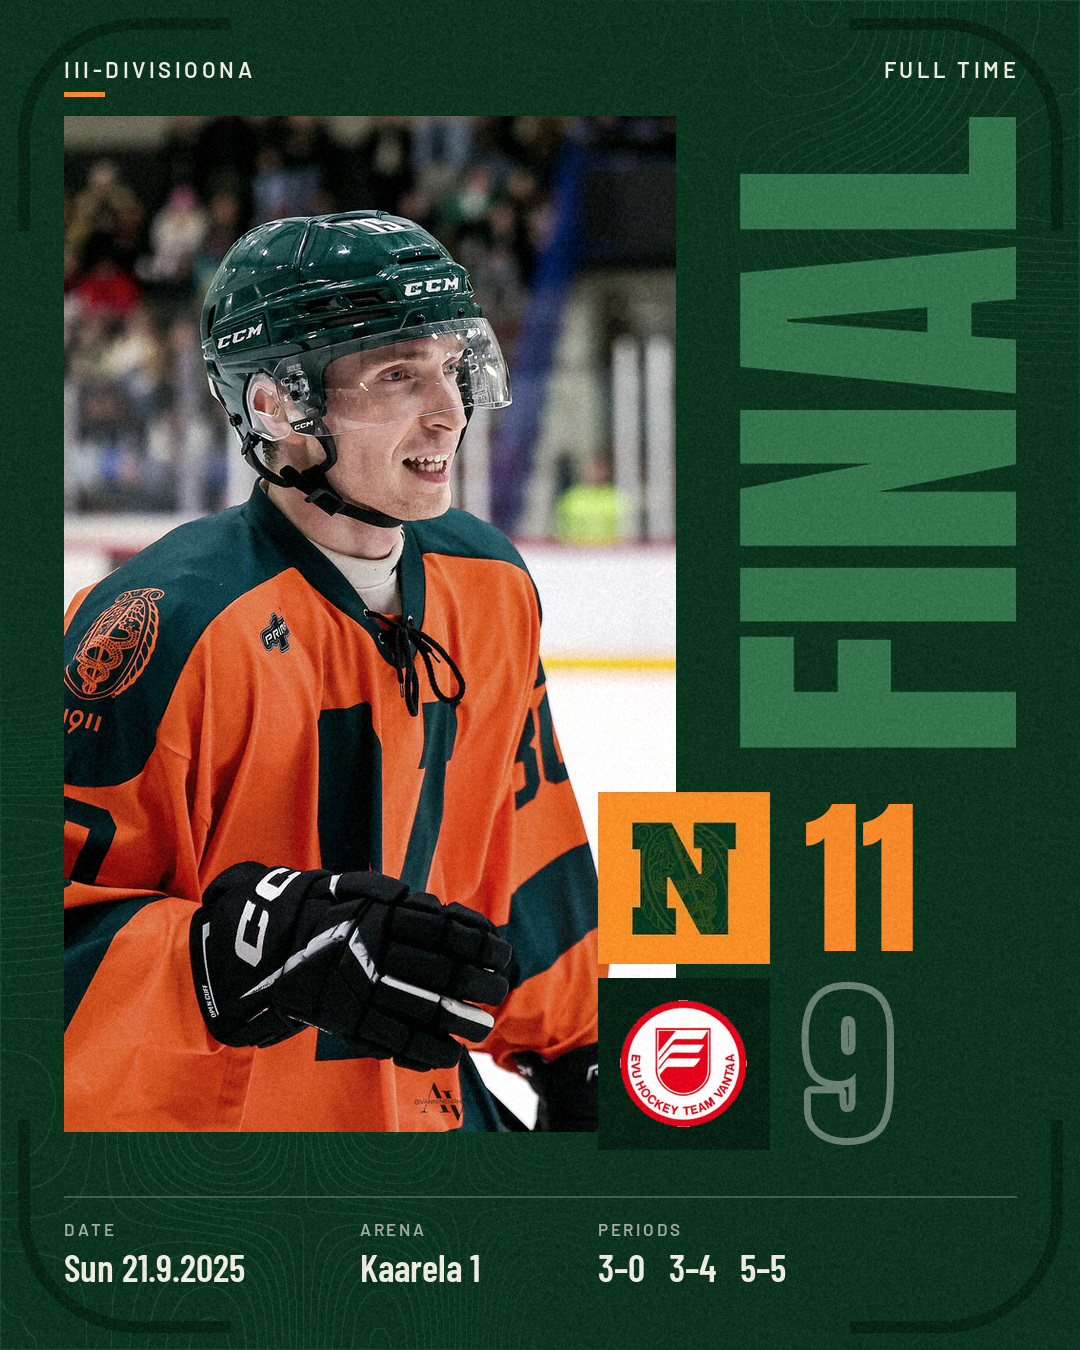
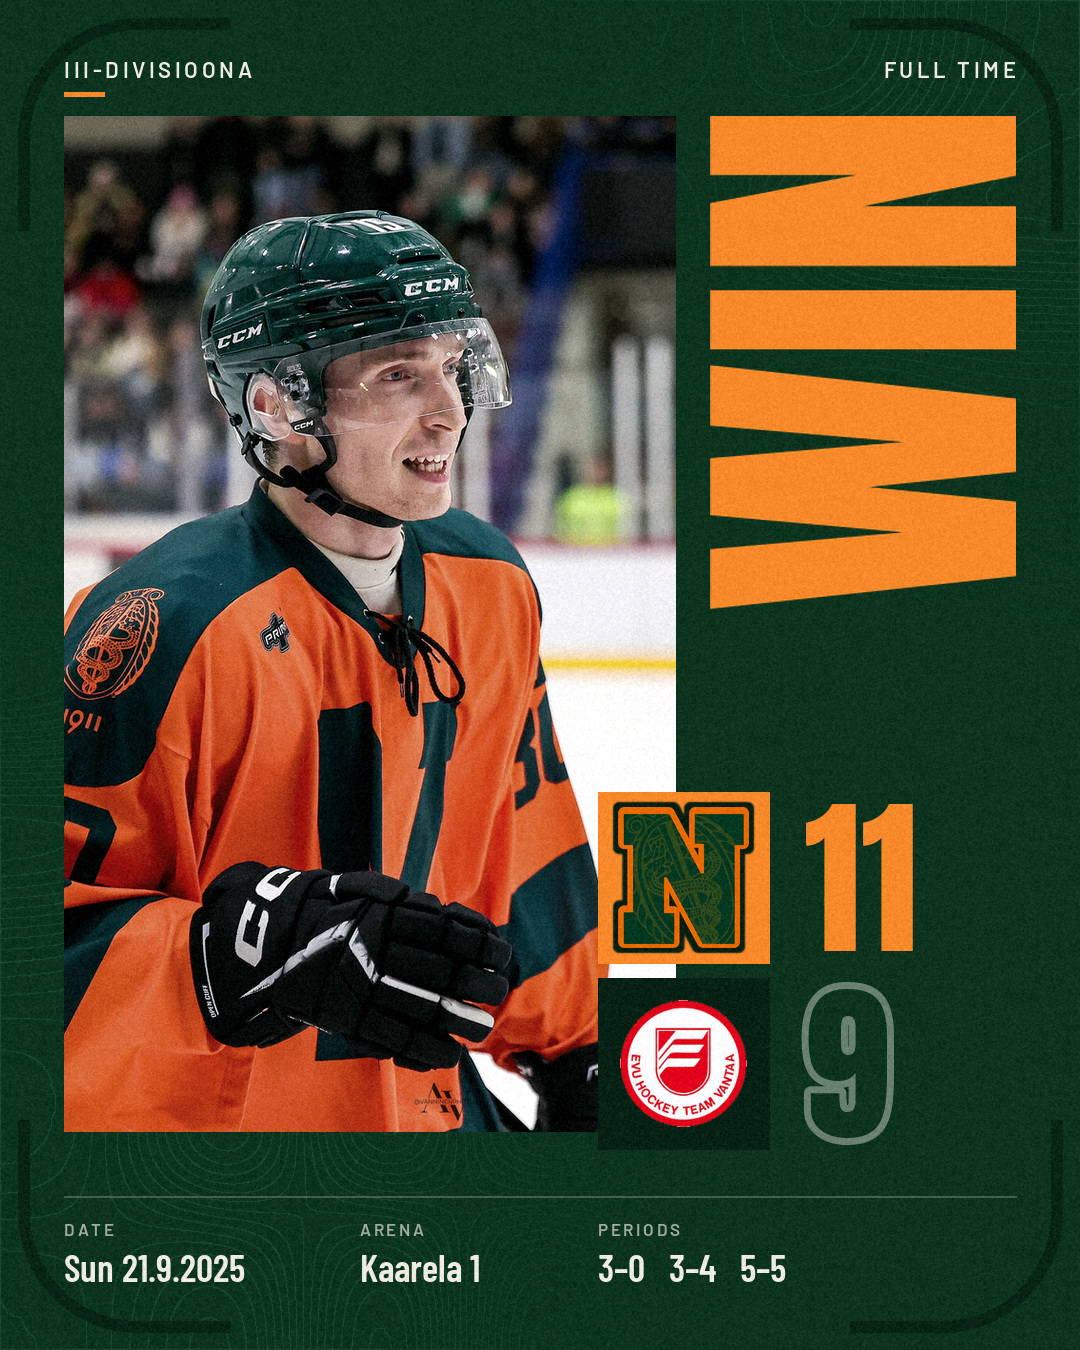
FCAA posts in FCAA navy; a Näädät win reads WIN instead of FINAL
Claude-Session: https://claude.ai/code/session_01E3Tk5uwvYhQgExk5yUNRYj

Changed region(s): [[0.6417, 0.0622, 0.9472, 0.56], [0.55, 0.5911, 0.7028, 0.7156]]

diff --git a/skills/naadat-game-posts/scripts/render_card.py b/skills/naadat-game-posts/scripts/render_card.py
@@ -16,7 +16,8 @@ Outputs, all 1080x1350 and metadata-free (see clean_image.py):
   always      <out>/photo_credit.txt   the credit of the photo used, nothing else
 
 Look: a club poster. A home game is green, an away game orange (from
-us_side). A graded photo panel on the left, the title set vertically on the
+us_side); every FCAA game is FCAA navy. A Näädät win reads WIN, not FINAL.
+A graded photo panel on the left, the title set vertically on the
 right, square logo tiles overlapping the photo edge with the scores beside
 them, and a ruled info row at the foot. Anton for display type, Barlow for
 text and labels.
@@ -143,6 +144,7 @@ CREAM = (238, 235, 225)
 GREEN = (11, 51, 30)
 ORANGE = (247, 137, 42)
 AWAY_BG = (240, 130, 38)
+FCAA_BG = (6, 33, 60)           # FCAA navy (fcaahockey.app background, lifted a step for print)
 
 
 def mix(a, b, t):
@@ -174,7 +176,26 @@ THEMES = {
         "loser": mix(AWAY_BG, GREEN, 0.72),
         "duo_dark": (8, 34, 20), "duo_light": (252, 238, 220),
     },
+    "fcaa": {
+        "bg": FCAA_BG, "accent": ORANGE, "text": CREAM, "on_accent": GREEN,
+        "panel": mix(FCAA_BG, (0, 0, 0), 0.38),
+        "title": mix(FCAA_BG, (110, 160, 220), 0.52),
+        "board": mix(FCAA_BG, (0, 0, 0), 0.32),
+        "contour": mix(FCAA_BG, (100, 150, 210), 0.20),
+        "rule": mix(FCAA_BG, CREAM, 0.24),
+        "dim": mix(FCAA_BG, CREAM, 0.66),
+        "faint": mix(FCAA_BG, CREAM, 0.52),
+        "loser": mix(FCAA_BG, CREAM, 0.42),
+        "duo_dark": (2, 14, 28), "duo_light": (240, 244, 250),
+    },
 }
+
+
+def theme_of(game):
+    """'fcaa' for every FCAA game (league blue); otherwise 'home' green or 'away' orange."""
+    if (game.get("source") or "").lower() == "fcaa" or (game.get("competition") or "").upper() == "FCAA":
+        return "fcaa"
+    return "away" if game.get("us_side") == "away" else "home"
 
 
 # ------------------------------------------------------------------ type
@@ -891,13 +912,14 @@ def weekday_title(i, style="short"):
 # ------------------------------------------------------------------ result card
 
 def result_card(game, photo, focus):
-    theme = "away" if game.get("us_side") == "away" else "home"
+    theme = theme_of(game)
     t = THEMES[theme]
     img = background(theme, 11)
     photo_panel(img, t, photo, focus)
     final = is_final(game)
     fin = finish_word(game)
-    parts = [("FINAL" if final else "LIVE", t["title"])]
+    won_it = final and winner_side(game) == game.get("us_side", "home")
+    parts = [("WIN" if won_it else ("FINAL" if final else "LIVE"), t["accent"] if won_it else t["title"])]
     if final and fin:
         parts.append((fin, t["accent"]))
     vertical_title(img, parts, W - M, PHOTO[1], TILE_Y1 - TITLE_GAP - PHOTO[1], W - M - PHOTO[2] - 34)
@@ -932,7 +954,7 @@ def result_card(game, photo, focus):
 # ------------------------------------------------------------------ pregame card
 
 def pregame_card(game, photo, focus):
-    theme = "away" if game.get("us_side") == "away" else "home"
+    theme = theme_of(game)
     t = THEMES[theme]
     img = background(theme, 12)
     photo_panel(img, t, photo, focus)
@@ -954,7 +976,7 @@ def pregame_card(game, photo, focus):
     d.text((SCORE_X, TILE_Y2 + TILE - 14), tm, font=f, fill=t["accent"], anchor="ls")
 
     top_row(img, t, game.get("competition") or "",
-            [("HOME GAME" if theme == "home" else "AWAY GAME", t["text"])])
+            [("AWAY GAME" if game.get("us_side") == "away" else "HOME GAME", t["text"])])
     info_row(img, t, [("HOME", [(home.get("name") or "", t["text"])]),
                       ("AWAY", [(away.get("name") or "", t["text"])]),
                       ("ARENA", [(game.get("arena") or "", t["text"])])], INFO_Y)
@@ -1136,7 +1158,7 @@ STATS_Y = 1136                       # rule above the stats band of the summary
 
 
 def summary_card(game):
-    theme = "away" if game.get("us_side") == "away" else "home"
+    theme = theme_of(game)
     t = THEMES[theme]
     img = background(theme, 13)
     d = ImageDraw.Draw(img)

diff --git a/README.md b/README.md
@@ -2,7 +2,7 @@
 
 An assistant skill that makes Näädät's Instagram posts around every game. Ask your AI assistant (Claude, Codex, ChatGPT and others) for "the game day post for tonight" or "the result post for last night's game", and you get the finished images plus a caption to copy. Every image is Instagram post size (1080x1350).
 
-Home games get a green post and away games an orange one, automatically. Every post shows a real game photo from the skill's own photo library: you never need to send a photo, and the assistant switches photos from game to game.
+Home games get a green post and away games an orange one, automatically; FCAA games use the FCAA navy. When Näädät win, the result post says WIN in big orange letters instead of FINAL. Every post shows a real game photo from the skill's own photo library: you never need to send a photo, and the assistant switches photos from game to game.
 
 **Pre-game post**, for game day:
 
@@ -11,7 +11,7 @@ Home games get a green post and away games an orange one, automatically. Every p
 
 **Post-game post**, after the final horn:
 
-- **Slide 1** (`result_feed.jpg`): FINAL, a game photo, both team logos, the score, date, rink and period scores.
+- **Slide 1** (`result_feed.jpg`): WIN (or FINAL after a loss), a game photo, both team logos, the score, date, rink and period scores.
 - **Slide 2** (`summary_feed.jpg`): every goal with time and assists, shots, power-play goals and goalie saves. Made when the goal log is known.
 - An English caption, ready to copy.
 
@@ -24,6 +24,11 @@ III-divisioona games are read from the official results service, tulospalvelu.le
 | Result, home game | Result, away game |
 |---|---|
 | ![Result post for a home game, green](docs/example_result_home.jpg) | ![Result post for an away game, orange](docs/example_result_away.jpg) |
+
+FCAA games use the FCAA navy:
+
+![FCAA result post, a Näädät win](docs/example_fcaa_result.jpg)
+
 
 | Game day post | Slide 2: goal summary |
 |---|---|
@@ -103,7 +108,7 @@ All team settings live in [`skills/naadat-game-posts/assets/brand/team.json`](sk
 
 - **Team logo**: put the crest as a PNG with a transparent background (about 600 px tall or more) in `assets/brand/` and set its file name in `logo`.
 - **Opponent logo**: for a single post, the user simply attaches the logo in the chat. To keep it for later games, put a PNG in `assets/logos/` named by the club's association id: the number in the link of the club's logo on tulospalvelu.leijonat.fi (for example `10115736.png`). An FCAA team's logo goes in `assets/logos/fcaa/`, named by the team name in lower case with accents removed and every other character turned into `-` (for example `mighty-cocks-green.png`), with a line for it in `assets/logos/fcaa/index.json` (team name as the FCAA app writes it, then the file name).
-- **Colours**: change `GREEN`, `ORANGE` and `CREAM` near the top of `skills/naadat-game-posts/scripts/render_card.py` (home posts use green, away posts orange).
+- **Colours**: change `GREEN`, `ORANGE` and `CREAM` near the top of `skills/naadat-game-posts/scripts/render_card.py` (home posts use green, away posts orange); `FCAA_BG` is the FCAA navy.
 - **Photos**: add a real camera photo the club may use (long edge about 1600 px, saved without metadata) to `assets/photos/` and add an entry for it to `assets/photos/photos.json` with the file name, the photographer credit exactly as it should appear in the caption, the crop centre (`focus`, as fractions of width and height) and the jersey colour. Add the photographer to the photo credits above.
 
 Then rebuild the zip with `python tools/build_zip.py`, commit `dist/naadat-game-posts.zip`, and ask everyone to download the new zip from the link above and upload it again. Claude Code and Codex read the copied skill folder directly, so there a change to that folder applies at once.

diff --git a/skills/naadat-game-posts/SKILL.md b/skills/naadat-game-posts/SKILL.md
@@ -5,12 +5,12 @@ description: Näädät (@naadathockey) Instagram posts, III-divisioona and FCAA:
 
 # Näädät game posts
 
-Two kinds of Instagram post for a Näädät game. Every image is feed post size (1080x1350, 4:5), green for a home game and orange for an away game (set automatically from `us_side`), with a real game photo from the bundled photo library. Each post comes with an English caption you write from the same data.
+Two kinds of Instagram post for a Näädät game. Every image is feed post size (1080x1350, 4:5), green for a home game and orange for an away game in III-divisioona (set automatically from `us_side`), FCAA navy for every FCAA game, with a real game photo from the bundled photo library. Each post comes with an English caption you write from the same data.
 
 | branch | when | files |
 |---|---|---|
 | **Pre-game** | game day or before: "game day post", "matchday post", "post for tonight's game" | `pregame_feed.jpg`: GAME DAY, photo, both logos, date, face-off time, rink |
-| **Post-game** | after the final horn: "result post", "final score", "recap" | `result_feed.jpg` (slide 1: FINAL, photo, both logos, score, date, rink, periods) and `summary_feed.jpg` (slide 2: goal log, shots, power-play goals, goalie saves) |
+| **Post-game** | after the final horn: "result post", "final score", "recap" | `result_feed.jpg` (slide 1: WIN when Näädät win, otherwise FINAL; photo, both logos, score, date, rink, periods) and `summary_feed.jpg` (slide 2: goal log, shots, power-play goals, goalie saves) |
 
 Pick the branch from the user's words. A game still to be played is pre-game; a finished game is post-game. If the request fits neither clearly ("post for the KHK game"), ask which one.
 
@@ -192,7 +192,7 @@ The script picks the photo itself, stepping through the library game by game, an
 
 Opponent logos come from `logo_file` (relative to the folder of `DATA`), then `logo_asset` (a bundled file under `assets/logos/`, set by `fcaa.py`), then `assets/logos/<association_id>.png`, then the results service, then a lettered badge.
 
-**Done when** the script has printed a `wrote` line for every file of your branch (post-game without a goal log: `result_feed.jpg` plus a `note:` that slide 2 was skipped), a `photo:` line, every `note: no logo for <team>, using a lettered badge` and `warning: logo_file ... not found` has been passed to the user so they can send a logo, and you have looked at the first image yourself (`pregame_feed.jpg` or `result_feed.jpg`), checking that every name, number, time and logo is right, the background is green for home and orange for away, and nothing is clipped.
+**Done when** the script has printed a `wrote` line for every file of your branch (post-game without a goal log: `result_feed.jpg` plus a `note:` that slide 2 was skipped), a `photo:` line, every `note: no logo for <team>, using a lettered badge` and `warning: logo_file ... not found` has been passed to the user so they can send a logo, and you have looked at the first image yourself (`pregame_feed.jpg` or `result_feed.jpg`), checking that every name, number, time and logo is right, the background is green for home and orange for away (navy for FCAA), the title reads WIN for a Näädät win and FINAL otherwise, and nothing is clipped.
 
 ### 3. Verify the files are clean
 
